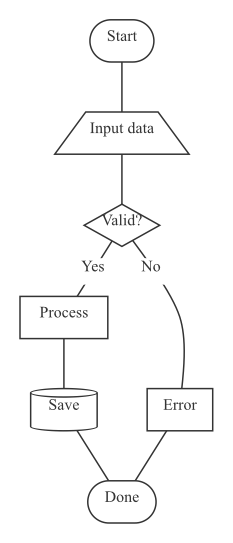
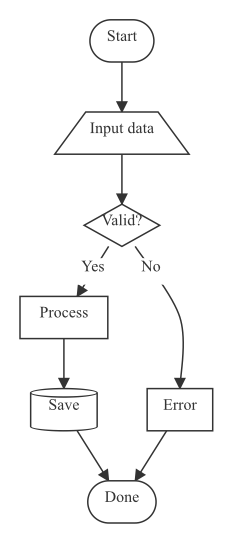
flowchart: clip edge endpoints so arrowheads aren't buried
Flowchart's marker-end was present in every edge element but never
visible in rendered output — layout emits center-to-center polylines
and the rendered node rect/polygon drew over the arrowhead at the
target center.

Apply the same fix ER (#56) and class (#58) already landed: clip
pts[0] and pts[last] to the corresponding node's rectangle edge
using svgutil.ClipToRectEdge, with the cached srcDir/dstDir guard
for 2-point edge aliasing.

renderEdge now takes *layout.Result + graph.EdgeID so it can look
up source/target node bounds; test call sites updated (8 call sites
in edges_test.go, none of which exercise clipping so they pass nil/
zero values). Golden files in pkg/renderer/flowchart/testdata and
pkg/output/svg/testdata updated with -update.

Visual before/after on the three flowchart examples:
  simple:   arrowheads now at Decision edge / Process edge / End edges.
  shapes:   arrowheads on every rank transition.
  subgraphs: all 5 edges arrow into their target.

diff --git a/pkg/renderer/flowchart/edges_test.go b/pkg/renderer/flowchart/edges_test.go
@@ -144,7 +144,7 @@ func TestRenderEdgeStraightLine(t *testing.T) {
 		Points:   []layout.Point{{X: 0, Y: 0}, {X: 100, Y: 0}},
 		LabelPos: layout.Point{X: 50, Y: 0},
 	}
-	elems := renderEdge(e, el, 10, DefaultTheme(), 16, nil)
+	elems := renderEdge(e, el, 10, DefaultTheme(), 16, nil, nil, graph.EdgeID{})
 	if len(elems) < 1 {
 		t.Fatal("expected at least 1 element")
 	}
@@ -174,7 +174,7 @@ func TestRenderEdgeWithLabel(t *testing.T) {
 		Points:   []layout.Point{{X: 0, Y: 0}, {X: 100, Y: 0}},
 		LabelPos: layout.Point{X: 50, Y: 0},
 	}
-	elems := renderEdge(e, el, 0, DefaultTheme(), 16, ruler)
+	elems := renderEdge(e, el, 0, DefaultTheme(), 16, ruler, nil, graph.EdgeID{})
 	hasLabel := false
 	for _, elem := range elems {
 		if txt, ok := elem.(*Text); ok && txt.Content == "yes" {
@@ -197,7 +197,7 @@ func TestRenderEdgeLabelBackgroundRect(t *testing.T) {
 		Points:   []layout.Point{{X: 0, Y: 0}, {X: 100, Y: 0}},
 		LabelPos: layout.Point{X: 50, Y: 0},
 	}
-	elems := renderEdge(e, el, 0, DefaultTheme(), 16, ruler)
+	elems := renderEdge(e, el, 0, DefaultTheme(), 16, ruler, nil, graph.EdgeID{})
 	hasBgRect := false
 	for _, elem := range elems {
 		if r, ok := elem.(*Rect); ok && strings.Contains(r.Style, "fill:white") {
@@ -221,7 +221,7 @@ func TestRenderEdgeLabelBackgroundRectWithRuler(t *testing.T) {
 		Points:   []layout.Point{{X: 0, Y: 0}, {X: 200, Y: 0}},
 		LabelPos: layout.Point{X: 100, Y: 0},
 	}
-	elems := renderEdge(e, el, 0, DefaultTheme(), 16, ruler)
+	elems := renderEdge(e, el, 0, DefaultTheme(), 16, ruler, nil, graph.EdgeID{})
 	var bgRect *Rect
 	for _, elem := range elems {
 		if r, ok := elem.(*Rect); ok && strings.Contains(r.Style, "fill:white") {
@@ -250,7 +250,7 @@ func TestRenderEdgeNilRulerWithLabelDoesNotPanic(t *testing.T) {
 			t.Fatalf("renderEdge panicked with nil ruler: %v", r)
 		}
 	}()
-	elems := renderEdge(e, el, 0, DefaultTheme(), 16, nil)
+	elems := renderEdge(e, el, 0, DefaultTheme(), 16, nil, nil, graph.EdgeID{})
 	if len(elems) == 0 {
 		t.Error("expected fallback elements")
 	}
@@ -262,7 +262,7 @@ func TestRenderEdgeDotted(t *testing.T) {
 		Points:   []layout.Point{{X: 0, Y: 0}, {X: 100, Y: 0}},
 		LabelPos: layout.Point{X: 50, Y: 0},
 	}
-	elems := renderEdge(e, el, 0, DefaultTheme(), 16, nil)
+	elems := renderEdge(e, el, 0, DefaultTheme(), 16, nil, nil, graph.EdgeID{})
 	line, ok := elems[0].(*Line)
 	if !ok {
 		t.Fatalf("expected *Line, got %T", elems[0])
@@ -278,7 +278,7 @@ func TestRenderEdgeNoMarker(t *testing.T) {
 		Points:   []layout.Point{{X: 0, Y: 0}, {X: 100, Y: 0}},
 		LabelPos: layout.Point{X: 50, Y: 0},
 	}
-	elems := renderEdge(e, el, 0, DefaultTheme(), 16, nil)
+	elems := renderEdge(e, el, 0, DefaultTheme(), 16, nil, nil, graph.EdgeID{})
 	line, ok := elems[0].(*Line)
 	if !ok {
 		t.Fatalf("expected *Line, got %T", elems[0])
@@ -294,7 +294,7 @@ func TestRenderEdgeCurve(t *testing.T) {
 		Points:   []layout.Point{{X: 0, Y: 0}, {X: 50, Y: 50}, {X: 100, Y: 0}},
 		LabelPos: layout.Point{X: 50, Y: 25},
 	}
-	elems := renderEdge(e, el, 0, DefaultTheme(), 16, nil)
+	elems := renderEdge(e, el, 0, DefaultTheme(), 16, nil, nil, graph.EdgeID{})
 	path, ok := elems[0].(*Path)
 	if !ok {
 		t.Fatalf("expected *Path for 3-point edge, got %T", elems[0])

diff --git a/pkg/renderer/flowchart/edges.go b/pkg/renderer/flowchart/edges.go
@@ -7,6 +7,7 @@ import (
 	"github.com/julianshen/mmgo/pkg/diagram"
 	"github.com/julianshen/mmgo/pkg/layout"
 	"github.com/julianshen/mmgo/pkg/layout/graph"
+	"github.com/julianshen/mmgo/pkg/renderer/svgutil"
 	"github.com/julianshen/mmgo/pkg/textmeasure"
 )
 
@@ -116,12 +117,12 @@ func renderEdges(d *diagram.FlowchartDiagram, l *layout.Result, pad float64, th 
 		ae := candidates[0]
 		fromTo[key] = candidates[1:]
 
-		elems = append(elems, renderEdge(ae, elayout, pad, th, fontSize, ruler)...)
+		elems = append(elems, renderEdge(ae, elayout, pad, th, fontSize, ruler, l, eid)...)
 	}
 	return elems
 }
 
-func renderEdge(e diagram.Edge, el layout.EdgeLayout, pad float64, th Theme, fontSize float64, ruler *textmeasure.Ruler) []any {
+func renderEdge(e diagram.Edge, el layout.EdgeLayout, pad float64, th Theme, fontSize float64, ruler *textmeasure.Ruler, l *layout.Result, eid graph.EdgeID) []any {
 	pts := make([]layout.Point, len(el.Points))
 	copy(pts, el.Points)
 	if len(pts) == 0 {
@@ -131,6 +132,23 @@ func renderEdge(e diagram.Edge, el layout.EdgeLayout, pad float64, th Theme, fon
 	for i := range pts {
 		pts[i].X += pad
 		pts[i].Y += pad
+	}
+	// Clip endpoints to source/target node boundaries so marker-end
+	// arrowheads don't land inside (and get covered by) the node rect.
+	// Cache direction references before mutating either endpoint —
+	// pts[1] and pts[len-2] alias for 2-point edges.
+	if l != nil && len(pts) >= 2 {
+		srcDir := pts[1]
+		dstDir := pts[len(pts)-2]
+		if src, ok := l.Nodes[eid.From]; ok {
+			x, y := svgutil.ClipToRectEdge(src.X+pad, src.Y+pad, src.Width, src.Height, srcDir.X, srcDir.Y)
+			pts[0] = layout.Point{X: x, Y: y}
+		}
+		if dst, ok := l.Nodes[eid.To]; ok {
+			last := len(pts) - 1
+			x, y := svgutil.ClipToRectEdge(dst.X+pad, dst.Y+pad, dst.Width, dst.Height, dstDir.X, dstDir.Y)
+			pts[last] = layout.Point{X: x, Y: y}
+		}
 	}
 
 	style := edgeStyle(th, e.LineStyle)
